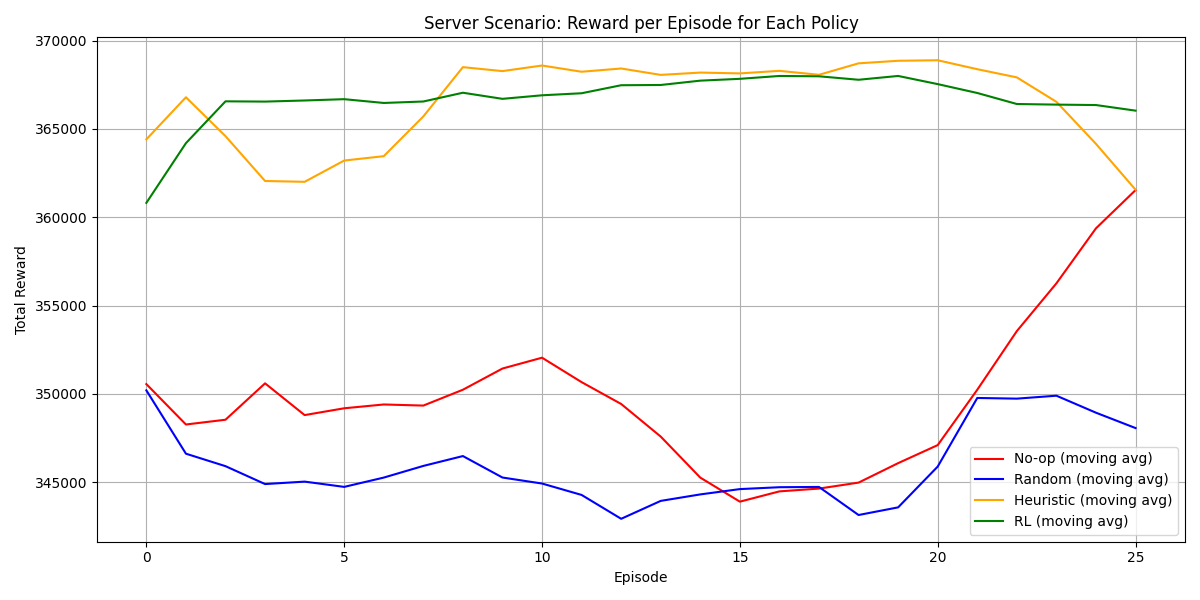
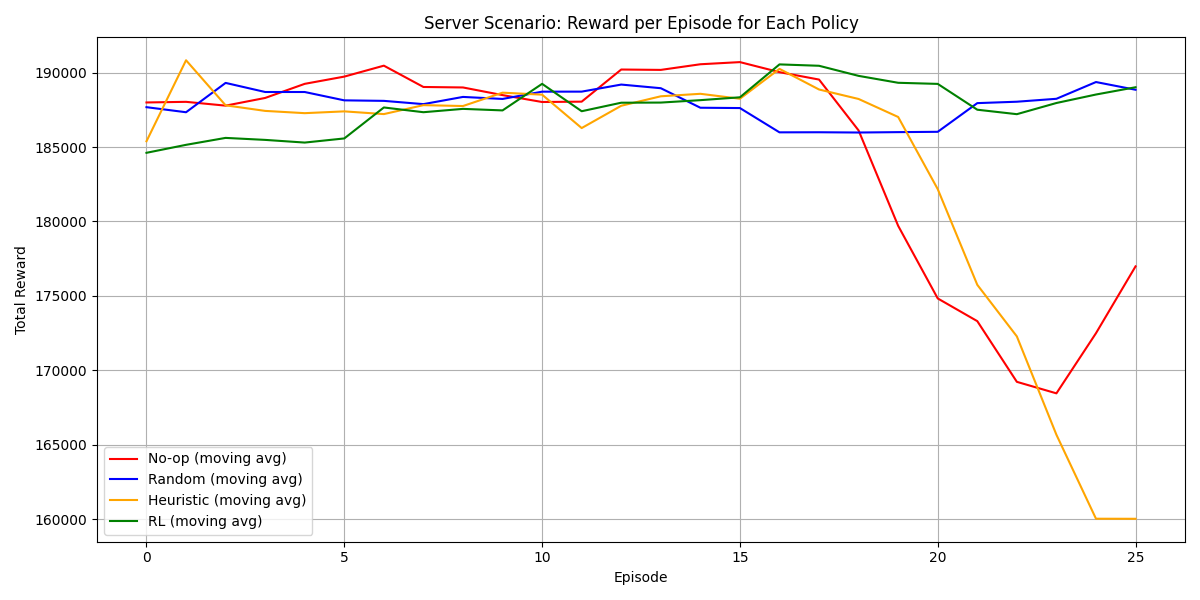
try some runs

diff --git a/Second Scenario - Server/heuristic_agent_server.py b/Second Scenario - Server/heuristic_agent_server.py
@@ -17,44 +17,44 @@ def heuristic_policy(metrics, agent):
 
     # dirty_ratio
     dirty_ratio = get_sysctl_value("vm.dirty_ratio")
-    if metrics["iowait"] > 1 and dirty_ratio != 10:
+    if metrics["latency"] > 18 and dirty_ratio != 10:
         return agent.actions.index("set_dirty_ratio_10")
-    if metrics["iowait"] < 0.2 and dirty_ratio != 40:
+    if metrics["latency"] < 12 and dirty_ratio != 40:
         return agent.actions.index("set_dirty_ratio_40")
 
     # wmem_max
     wmem_max = get_sysctl_value("net.core.wmem_max")
-    if metrics.get("latency", 0) > 1 and metrics["requests_per_sec"] < 100000 and wmem_max != 16777216:
+    if metrics["latency"] > 17 and wmem_max != 16777216:
         return agent.actions.index("set_wmem_max_16M")
-    if metrics.get("latency", 0) > 0.5 and wmem_max != 8388608:
+    if metrics["latency"] < 12 and wmem_max != 8388608:
         return agent.actions.index("set_wmem_max_8M")
 
     # rmem_max
     rmem_max = get_sysctl_value("net.core.rmem_max")
-    if metrics["cpu_usage"] > 30 and rmem_max != 16777216:
+    if metrics["cpu_usage"] > 50 and rmem_max != 16777216:
         return agent.actions.index("set_rmem_max_16M")
     if metrics["cpu_usage"] < 10 and rmem_max != 1048576:
         return agent.actions.index("set_rmem_max_1M")
 
-    # ctx_switches / somaxconn
+    # somaxconn
     somaxconn = get_sysctl_value("net.core.somaxconn")
-    if metrics.get("ctx_switches", 0) > 20000 and somaxconn != 1024:
+    if metrics["requests_per_sec"] > 190000 and somaxconn != 1024:
         return agent.actions.index("set_somaxconn_1024")
-    if metrics.get("ctx_switches", 0) < 5000 and somaxconn != 128:
+    if metrics["requests_per_sec"] < 170000 and somaxconn != 128:
         return agent.actions.index("set_somaxconn_128")
 
     # tcp_tw_reuse
     tcp_tw_reuse = get_sysctl_value("net.ipv4.tcp_tw_reuse")
-    if metrics.get("latency", 0) > 2 and tcp_tw_reuse != 1:
+    if metrics["latency"] > 20 and tcp_tw_reuse != 1:
         return agent.actions.index("set_tcp_tw_reuse_1")
-    if metrics.get("latency", 0) < 0.5 and tcp_tw_reuse != 0:
+    if metrics["latency"] < 10 and tcp_tw_reuse != 0:
         return agent.actions.index("set_tcp_tw_reuse_0")
 
     # tcp_fin_timeout
     tcp_fin_timeout = get_sysctl_value("net.ipv4.tcp_fin_timeout")
-    if metrics.get("interrupts", 0) > 10000 and tcp_fin_timeout != 10:
+    if metrics["latency"] > 20 and tcp_fin_timeout != 10:
         return agent.actions.index("set_tcp_fin_timeout_10")
-    if metrics.get("interrupts", 0) < 2000 and tcp_fin_timeout != 60:
+    if metrics["latency"] < 12 and tcp_fin_timeout != 30:
         return agent.actions.index("set_tcp_fin_timeout_30")
 
     # by default, do nothing
@@ -69,23 +69,23 @@ def main(num_episodes=30, nb_steps_per_episode=10, sleep_interval=1, return_rewa
         reset_sys_params()
         previous_actions = []
         requests_per_sec, latency, p99, _ = run_wrk(duration=2)
-        state = agent.get_state(collect_metrics(requests_per_sec))
+        state = agent.get_state(collect_metrics(requests_per_sec, latency))
         total_reward = 0
         last_rps = requests_per_sec
         for step in range(nb_steps_per_episode):
-            metrics = collect_metrics(requests_per_sec)
+            metrics = collect_metrics(requests_per_sec, latency)
             metrics["latency"] = latency  
             action_idx = heuristic_policy(metrics, agent)
             print("Applying action:", agent.actions[action_idx])
             agent.apply_action(action_idx)
             requests_per_sec, latency, p99, _ = run_wrk(duration=2)
-            next_state = agent.get_state(collect_metrics(requests_per_sec))
-            metrics = collect_metrics(requests_per_sec)
+            next_state = agent.get_state(collect_metrics(requests_per_sec, latency))
+            metrics = collect_metrics(requests_per_sec, latency)
             reward = agent.compute_reward(metrics, latency=latency, p99=p99, prev_rps=last_rps)
             last_rps = requests_per_sec
-            if agent.actions[action_idx] != "no_op":
-                penalty_factor = agent.penalize_consecutive_actions(action_idx, previous_actions)
-                reward *= penalty_factor
+            #if agent.actions[action_idx] != "no_op":
+            #    penalty_factor = agent.penalize_consecutive_actions(action_idx, previous_actions)
+            #    reward *= penalty_factor
             print("reward:", reward)
             previous_actions.append(action_idx)
             total_reward += reward

diff --git a/Second Scenario - Server/train_server_agent.py b/Second Scenario - Server/train_server_agent.py
@@ -45,16 +45,25 @@ def collect_metrics(requests_per_sec, latency):
 def reset_sys_params():
     """Reset system parameters to default values between episodes."""
     os.system("sudo sysctl -w vm.dirty_ratio=20")
+    time.sleep(0.1)
     os.system("sudo sysctl -w net.core.rmem_max=212992")
+    time.sleep(0.1)
     os.system("sudo sysctl -w net.core.wmem_max=212992")
+    time.sleep(0.1)
     os.system("sudo sysctl -w net.ipv4.tcp_tw_reuse=0")
+    time.sleep(0.1)
     os.system("sudo sysctl -w net.ipv4.tcp_fin_timeout=60") 
+    time.sleep(0.1)
     os.system("sudo sysctl -w net.core.somaxconn=128")
+    time.sleep(0.1)
     os.system("sudo systemctl restart nginx")
+    time.sleep(0.1)
     os.system("sudo sh -c 'echo 3 > /proc/sys/vm/drop_caches'")
+    time.sleep(0.1)
     os.system("pkill wrk")
+    time.sleep(0.1)
     os.system("sudo truncate -s 0 /var/log/nginx/access.log")
-    time.sleep(2)  
+    time.sleep(1)  
 
 def get_current_params():
     """Get current system parameters for logging and validation."""
@@ -93,9 +102,9 @@ def run_episode(agent, nb_steps_per_episode, sleep_interval, previous_actions):
         print("metrics:", metrics)
         reward = agent.compute_reward(metrics, latency=latency, p99=p99, prev_rps=last_rps)
         last_rps = requests_per_sec
-        if agent.actions[action_idx] != "no_op":
-            penalty_factor = agent.penalize_consecutive_actions(action_idx, previous_actions)
-            reward *= penalty_factor
+        #if agent.actions[action_idx] != "no_op":
+        #    penalty_factor = agent.penalize_consecutive_actions(action_idx, previous_actions)
+        #    reward *= penalty_factor
         print("reward:", reward)
         previous_actions.append(action_idx)
         agent.learn(state, action_idx, reward, next_state)
@@ -146,7 +155,7 @@ def plot_rewards(rewards, plots_dir):
     plt.savefig(plot_path)
     print(f"Plot saved as {plot_path}")
 
-def train_agent(num_episodes=100, nb_steps_per_episode=20, sleep_interval=0.1, return_rewards=False, exploration_rate=1.0):
+def train_agent(num_episodes=30, nb_steps_per_episode=10, sleep_interval=0.1, return_rewards=False, exploration_rate=0.1):
     """Train a reinforcement learning agent for the server scenario."""
     agent = ServerAgent(exploration_rate=exploration_rate)
     qtable_path = "Second Scenario - Server/q_table_server.npy"

diff --git a/Second Scenario - Server/random_agent_server.py b/Second Scenario - Server/random_agent_server.py
@@ -14,20 +14,20 @@ def main(num_episodes=30, nb_steps_per_episode=10, sleep_interval=1, return_rewa
         reset_sys_params()
         previous_actions = []
         requests_per_sec, latency, p99, _ = run_wrk(duration=2)
-        state = agent.get_state(collect_metrics(requests_per_sec))
+        state = agent.get_state(collect_metrics(requests_per_sec, latency))
         total_reward = 0
         last_rps = requests_per_sec
         for step in range(nb_steps_per_episode):
             action_idx = np.random.randint(len(agent.actions))
             agent.apply_action(action_idx)
             requests_per_sec, latency, p99, _ = run_wrk(duration=2)
-            next_state = agent.get_state(collect_metrics(requests_per_sec))
-            metrics = collect_metrics(requests_per_sec)
+            next_state = agent.get_state(collect_metrics(requests_per_sec, latency))
+            metrics = collect_metrics(requests_per_sec, latency)
             reward = agent.compute_reward(metrics, latency=latency, p99=p99, prev_rps=last_rps)
             last_rps = requests_per_sec
-            if agent.actions[action_idx] != "no_op":
-                penalty_factor = agent.penalize_consecutive_actions(action_idx, previous_actions)
-                reward *= penalty_factor
+            #if agent.actions[action_idx] != "no_op":
+            #    penalty_factor = agent.penalize_consecutive_actions(action_idx, previous_actions)
+            #    reward *= penalty_factor
             print("reward:", reward)
             previous_actions.append(action_idx)
             total_reward += reward

diff --git a/Second Scenario - Server/no_op_policy_server.py b/Second Scenario - Server/no_op_policy_server.py
@@ -14,7 +14,7 @@ def main(num_episodes=30, nb_steps_per_episode=10, sleep_interval=1, return_rewa
         reset_sys_params()
         previous_actions = []
         requests_per_sec, latency, p99, _ = run_wrk(duration=2)
-        state = agent.get_state(collect_metrics(requests_per_sec))
+        state = agent.get_state(collect_metrics(requests_per_sec, latency))
         total_reward = 0
         last_rps = requests_per_sec
         for step in range(nb_steps_per_episode):
@@ -22,13 +22,10 @@ def main(num_episodes=30, nb_steps_per_episode=10, sleep_interval=1, return_rewa
             print(f"Applying action: {agent.actions[action_idx]}")
             agent.apply_action(action_idx)
             requests_per_sec, latency, p99, _ = run_wrk(duration=2)
-            next_state = agent.get_state(collect_metrics(requests_per_sec))
-            metrics = collect_metrics(requests_per_sec)
+            next_state = agent.get_state(collect_metrics(requests_per_sec, latency))
+            metrics = collect_metrics(requests_per_sec, latency)
             reward = agent.compute_reward(metrics, latency=latency, p99=p99, prev_rps=last_rps)
             last_rps = requests_per_sec
-            if agent.actions[action_idx] != "no_op":
-                penalty_factor = agent.penalize_consecutive_actions(action_idx, previous_actions)
-                reward *= penalty_factor
             print("reward:", reward)
             previous_actions.append(action_idx)
             total_reward += reward

diff --git a/Second Scenario - Server/agent_server.py b/Second Scenario - Server/agent_server.py
@@ -147,7 +147,7 @@ class ServerAgent:
             os.system("sudo sysctl -w net.core.rmem_max=212992")
         elif action == "reset_wmem_max":
             os.system("sudo sysctl -w net.core.wmem_max=212992")
-        time.sleep(0.5)
+        time.sleep(1)
 
     def compute_reward(self, metrics, latency=None, p99=None, debug=False, prev_rps=None):
         """
